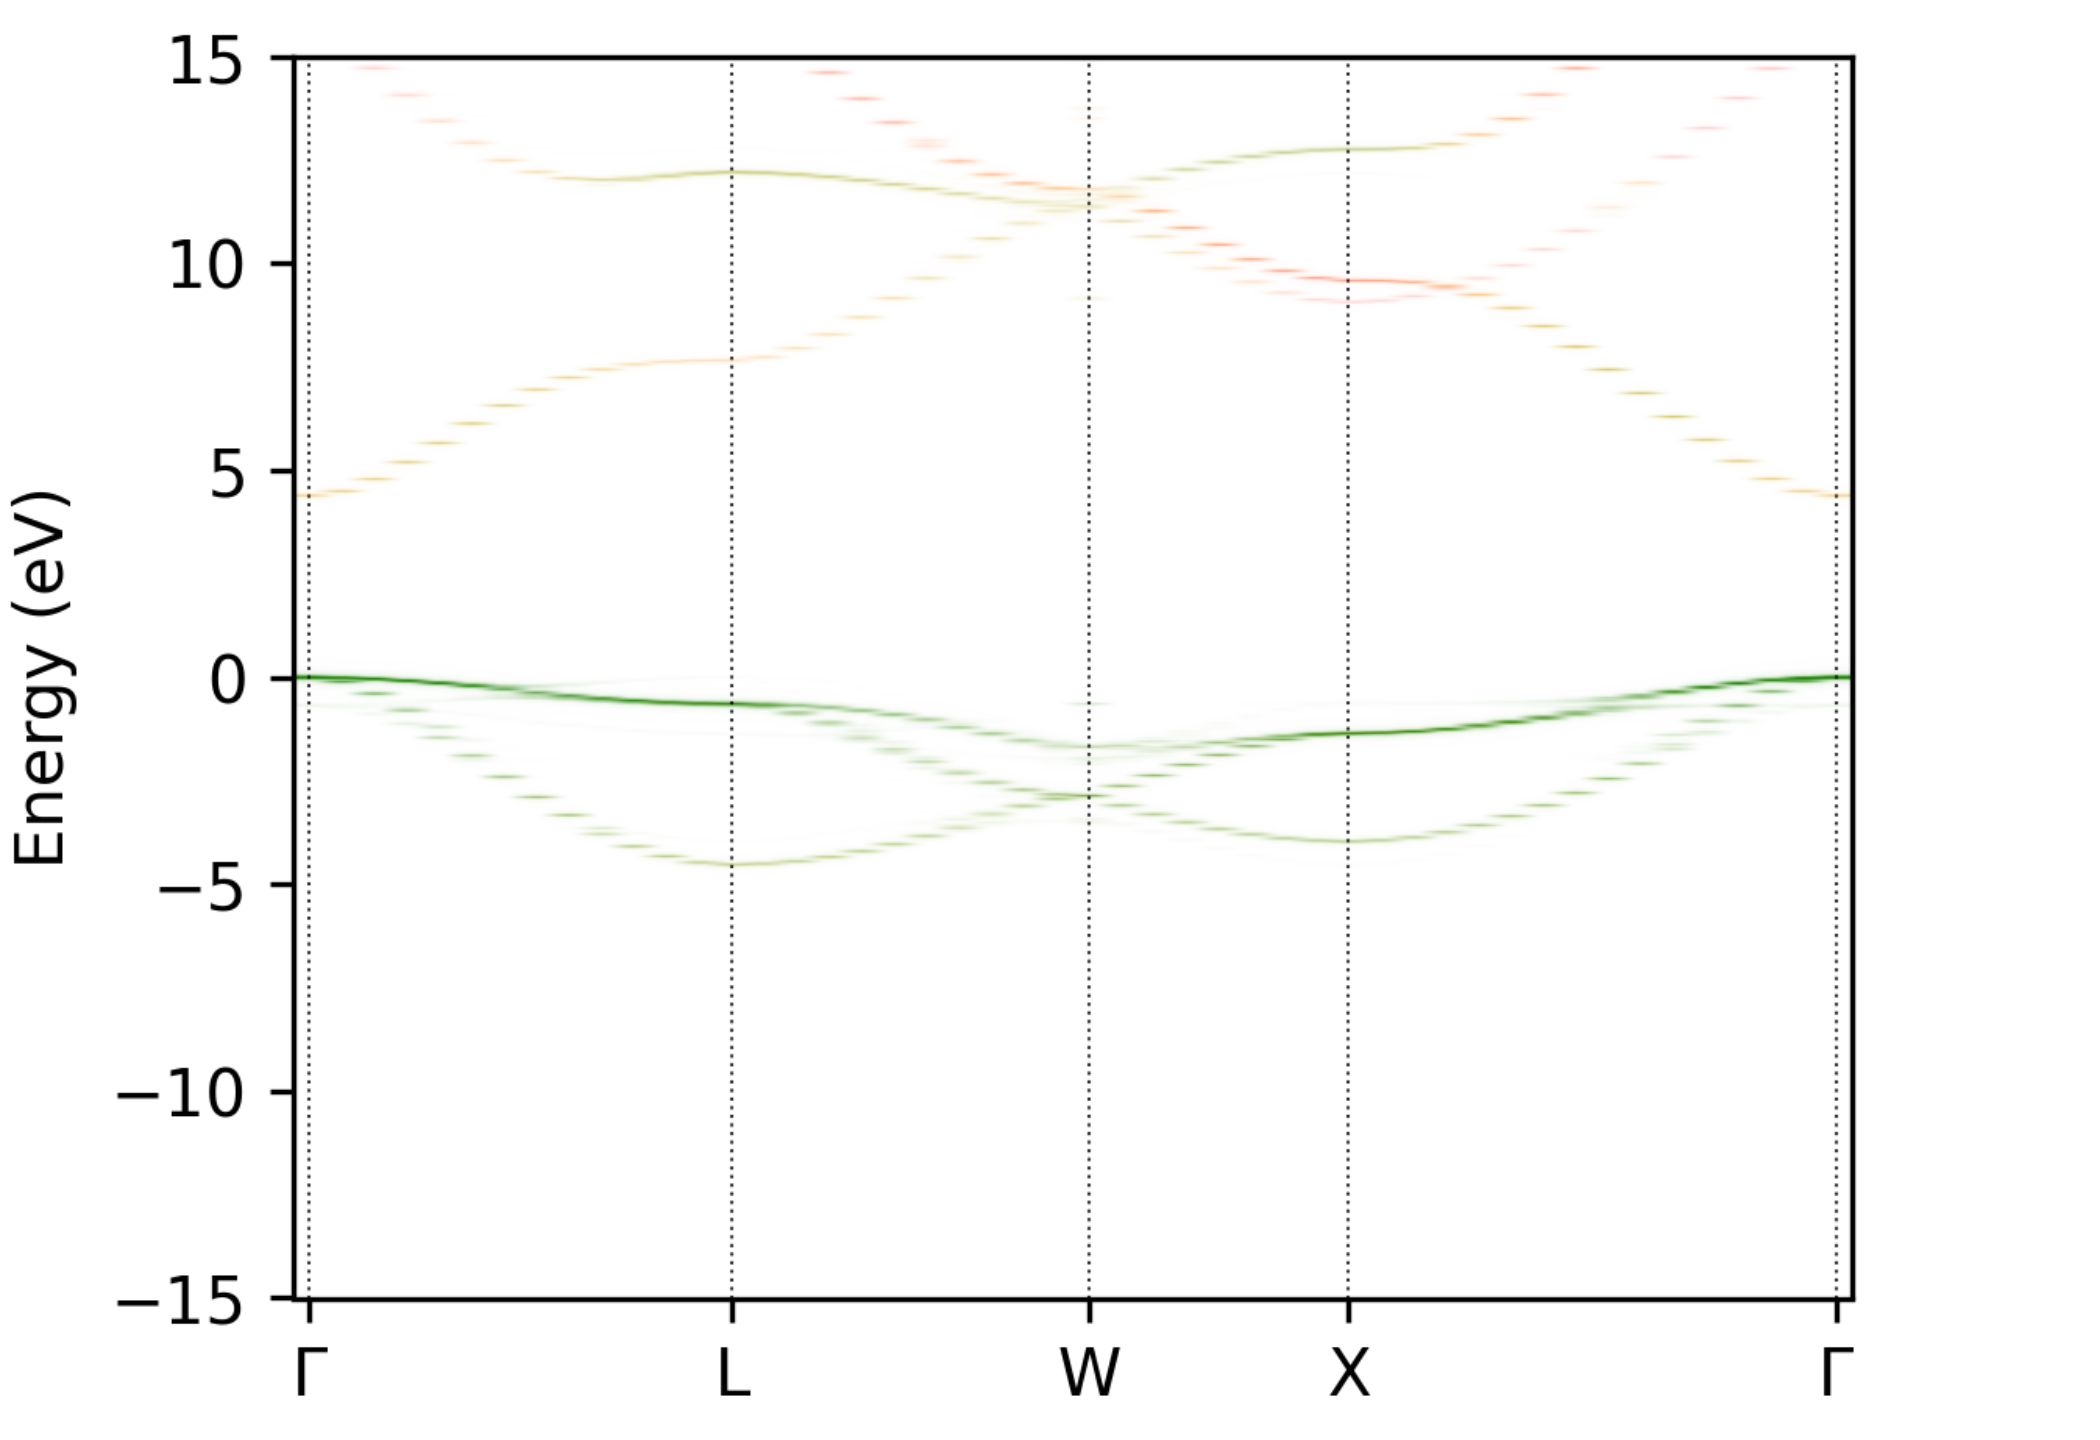
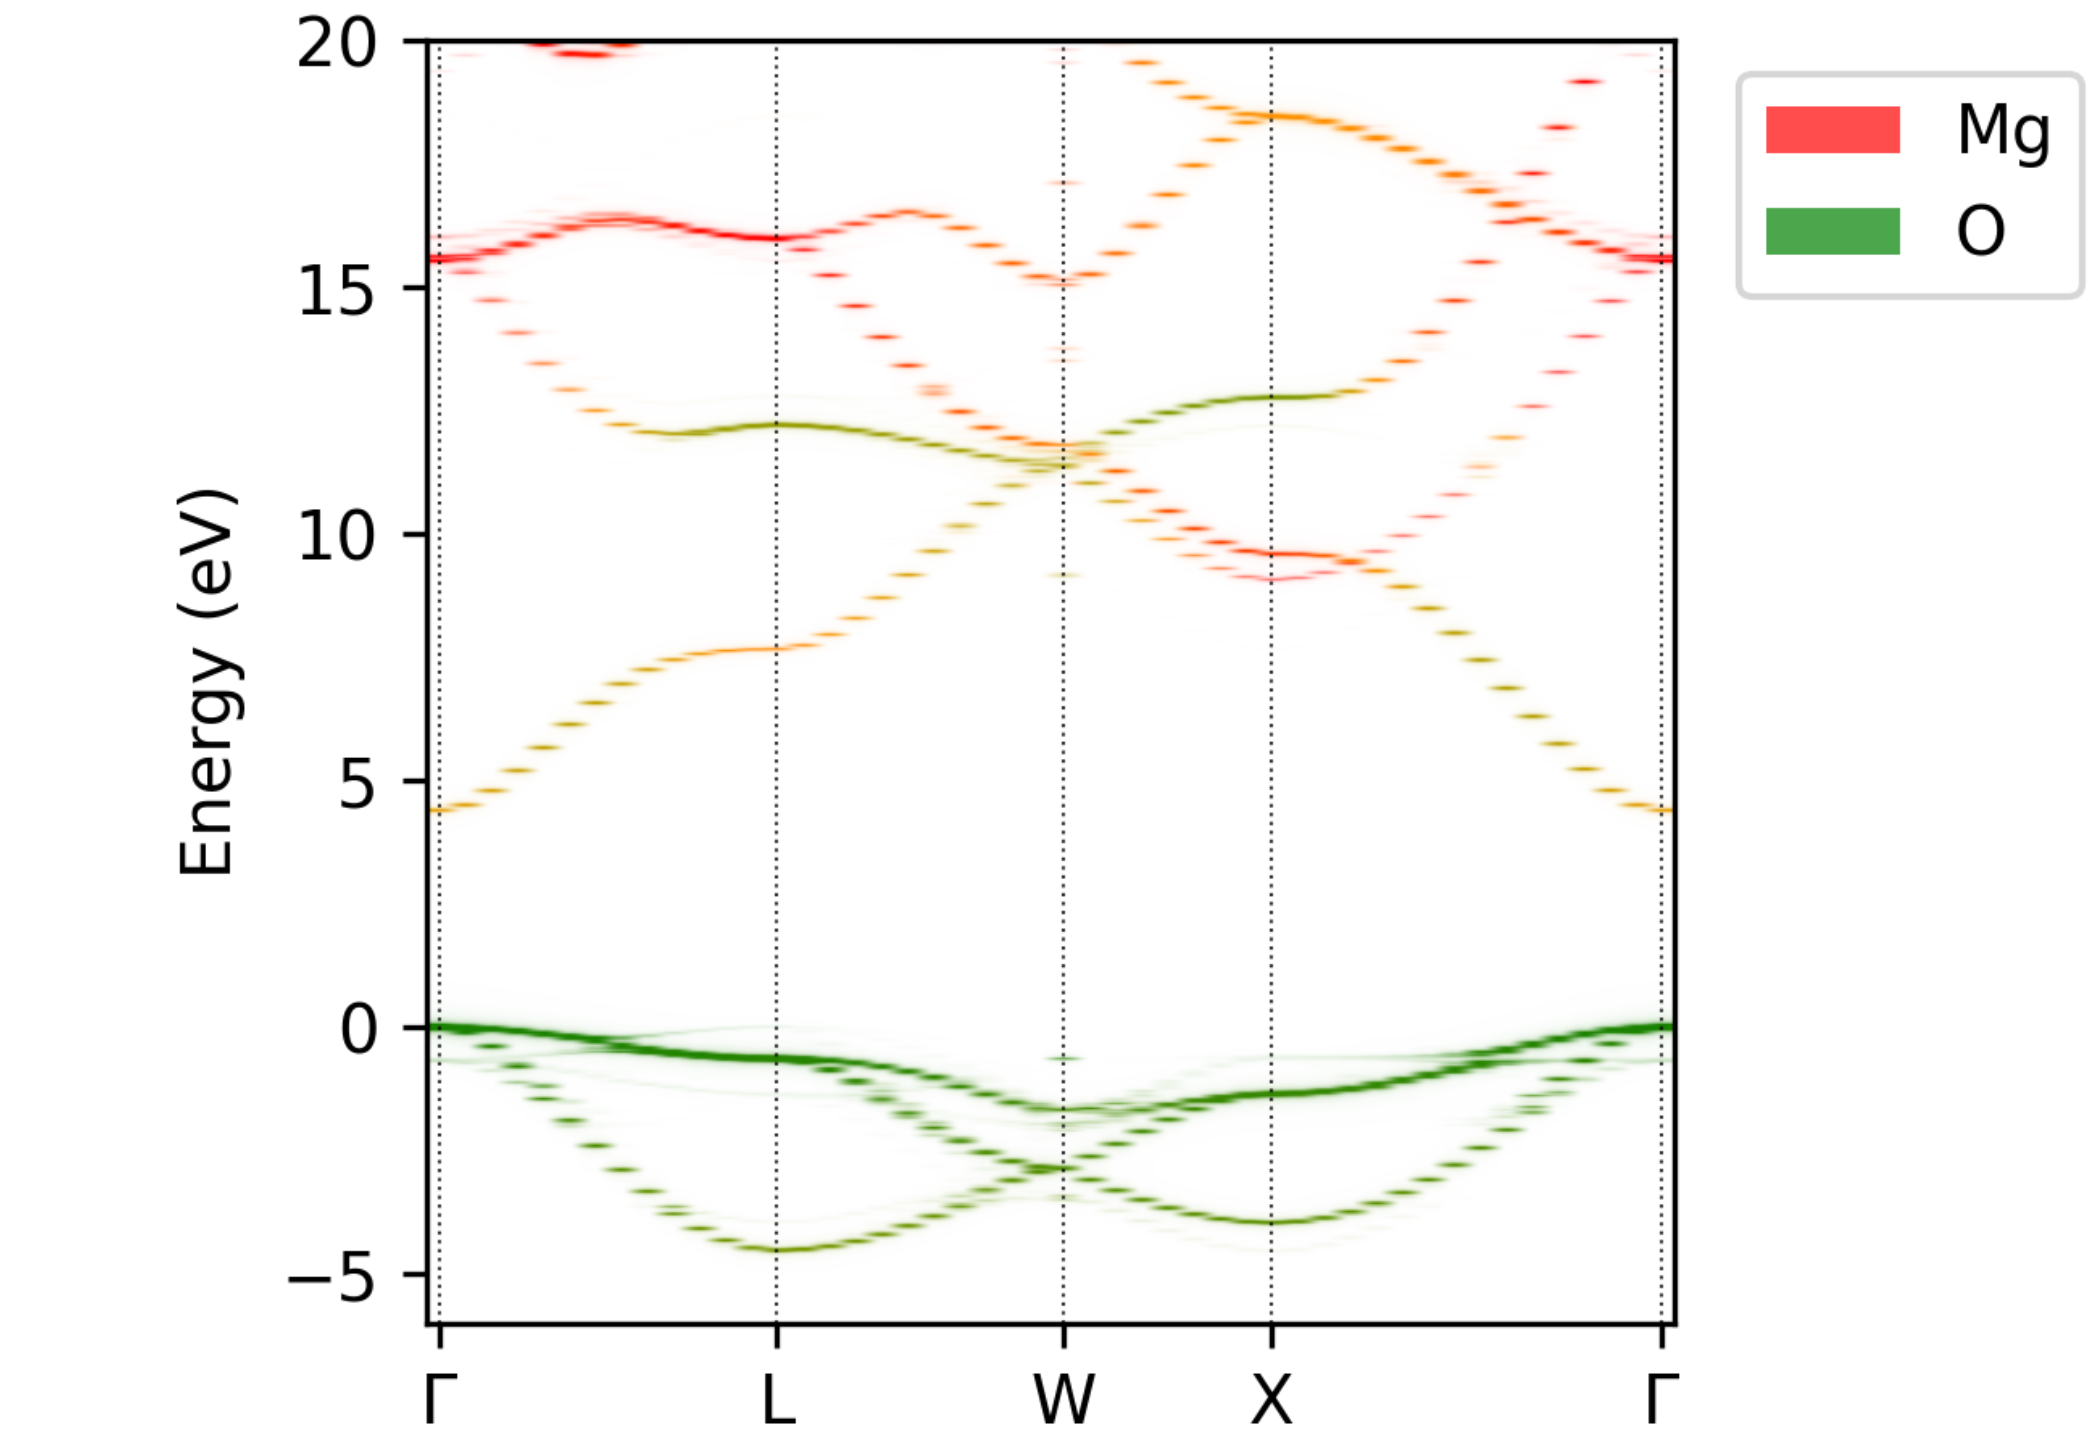
Update MgO example figures, commands, docs (show recommended `--atoms` rather than `--atoms-idx`)

diff --git a/docs/examples/example_mgo.md b/docs/examples/example_mgo.md
@@ -28,20 +28,15 @@ symmetry. The procedure is essentially the same as described in the
 [Si supercell example](https://smtg-ucl.github.io/easyunfold/examples/example_si222.html).
 
 The only difference here is that we turn on the calculation of orbital projections in `VASP` with 
-`LORBIT = 11` in the `INCAR` file, and then use the `plot-projections` subcommand when plotting the 
-unfolded band structure:
+`LORBIT = 11` (`12`, `13` and `14` will also work) in the `INCAR` file, and then use the `plot-projections` subcommand 
+when plotting the unfolded band structure:
 
 ```bash
-easyunfold unfold plot-projections --procar MgO_super/PROCAR --atoms-idx="1-4|5-8" \ 
---out-file unfold_project.png --combined --emin=-15 --emax=15
+easyunfold unfold plot-projections --procar MgO_super/PROCAR --atoms="Mg,O" --combined --emin=-6 --emax=20 \
+--colour-norm 0.15
 ```
 
-Note that the path of the `PROCAR` is passed along with the desired groupings of atoms (with 
-`--atoms-idx`).
-In this example, the first four atoms are `Mg` (`1-4`) and the last four are `O` (`5-8`), and we would
-like to show the elemental contributions to the bands. Different groups are separated by `|`, and `-` 
-can be used to define the range. Note that use of one-based indexing for atoms, although in python 
-zero-based indexing is used internally.
+Note that the path of the `PROCAR` is passed along with the desired atom projections (`Mg` and `O` here). 
 
 :::{note}
 The atomic projections are not stored in the `easyunfold.json` data file, so the `PROCAR` file should be 
@@ -56,20 +51,48 @@ projections into a single plot.
 :alt: MgO unfolded band structure
 :width: 400px
 :align: center
-Unfolded MgO band structure with atomic projections. Red for Mg and green for O atoms. 
+Unfolded MgO band structure with atomic projections. 
 ```
 
-
-In some cases, especially if there are many projection to be plotted at the same time, it can be clearer to create separated plots for each.
+The default colour map for atom projections is red, green, blue and purple for the 1st, 2nd, 3rd and 4th atomic species 
+specified. This can be changed with the `--colours` option, as well as several other plotting/visualisation settings – 
+see the output of `easyunfold unfold plot-projections --help` for more details. If we wanted to plot the atomic 
+projections with the same colouring scheme as the `sumo` plot above (i.e. red for Mg and blue for O), we can use:
 
 ```bash
-easyunfold unfold plot-projections  --procar MgO_super/PROCAR --atoms-idx="1-4|5-8" \
---out-file unfold_project_sep.png --emax=22 --emin=-18
+easyunfold unfold plot-projections --procar MgO_super/PROCAR --atoms="Mg,O" --combined --emin=-6 --emax=20 \
+--colour-norm 0.15 --colours "r,b"
+```
+
+```{figure} ../../examples/MgO/unfold_project_rb.png
+:alt: MgO unfolded band structure with specified colours
+:width: 400px
+:align: center
+Unfolded MgO band structure with atomic projections; red for Mg and blue for O atoms. 
+```
+
+:::{note}
+In order to specify the atomic projections with `--atoms`, the `POSCAR` or `CONTCAR` file for the supercell must be 
+present. If this is not the case, or we want to use projections from only specific atom subsets in the supercell, we can 
+alternatively use the `--atoms-idx` tag. This takes a string of the form `a-b|c-d|e-f` where `a`, `b`, `c`, `d`, `e` and
+`f` are integers corresponding to the atom indices in the VASP structure file (i.e. `POSCAR`/`CONTCAR`, corresponding 
+to the `PROCAR` being used to obtain the projections). Different groups are separated by `|`, and `-` 
+can be used to define the range for each projected atom type. A comma-separated list can also be used instead of ranges 
+with hyphens. Note that 1-based indexing is used for atoms, matching the convention in VASP, which is then converted to 
+zero-based indexing internally in python. In this example, we could set `--atoms-idx="1-4|5-8"` to get the same result
+as `--atoms="Mg,O"` (but without the figure legend).
+:::
+
+In some cases, especially if there are many projection to be plotted at the same time, it can be clearer to create 
+separated plots for each. This is the default behaviour for `plot-projections`, when `--combined` is not specified.
+
+```bash
+easyunfold unfold plot-projections --procar MgO_super/PROCAR --atoms="Mg,O" --emin=-6 --emax=20 --colour-norm 0.15
 ```
 
 ```{figure} ../../examples/MgO/unfold_project_sep.png
 :width: 800 px
 :alt: Projected MgO band structure  
 
-Unfolded MgO band structure with atomic projections plotted separately (Mg left and O right).
+Unfolded MgO band structure with atomic projections plotted separately.
 ```
